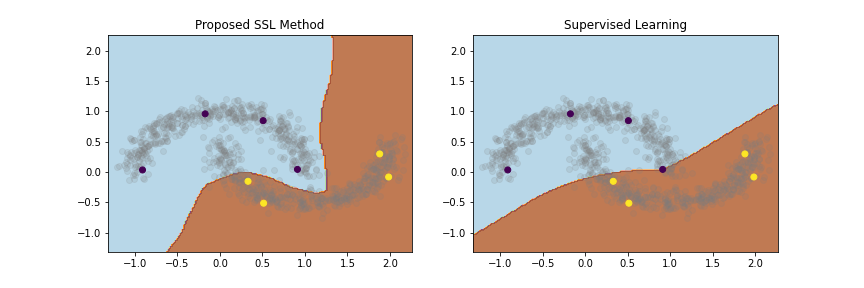
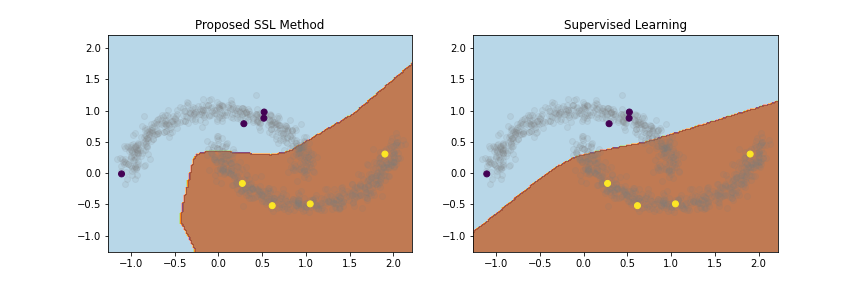
fixed bug in manifold regularization, updated two moons images

diff --git a/losses.py b/losses.py
@@ -6,6 +6,7 @@ import torch
 import torch.nn as nn
 import torch.nn.functional as F
 
+from sklearn.metrics.pairwise import cosine_similarity
 
 class SPMTLoss(nn.Module):
     def __init__(
@@ -17,13 +18,16 @@ class SPMTLoss(nn.Module):
             total_iterations: int,
 
             cons_lambda: float = 100.,
-            cpl_lambda: float = 1.,
+            cpl_lambda: float = 0.5,
+            gamma: float = 50.,
+            k: int = 3,
             label_smoothing: float = 0.1,
 
         ):
         super(SPMTLoss, self).__init__()
         self.cfg = cfg
-        self.gamma = 3.
+        self.k = k
+        self.gamma = gamma
         self.cons_lambda = cons_lambda
         self.cpl_lambda = cpl_lambda
         self.label_smoothing = label_smoothing
@@ -43,17 +47,21 @@ class SPMTLoss(nn.Module):
             label_smoothing = label_smoothing
         )
 
+        self.triplet_loss = TipletMiningLoss()
+
     def forward(
         self,
         pred: Tensor,
         targ_class: Tensor,
         ema_logit: Tensor,
+        features: Tensor,
         training_mode: bool = True
     ):
 
         supervised_loss = torch.tensor([0.]).to(pred.device)
         cons_loss = torch.tensor([0.]).to(pred.device)
         pseudo_loss = torch.tensor([0.]).to(pred.device)
+        #triplet_loss = torch.tensor([0.]).to(pred.device)
 
         # normal supervsied cross entropy
         supervised_loss += self.class_crit(pred, targ_class)
@@ -61,6 +69,9 @@ class SPMTLoss(nn.Module):
         if self.cfg.ecr:
             # consistency ECR loss from mean teacher
             cons_loss += self.consistency_loss(pred, ema_logit)
+        elif self.cfg.mr and (ema_logit is not None) and (features is not None):
+            cons_loss += self.manifold_regularization(pred, ema_logit, features)
+            #pseudo_loss += 0.0001 * self.triplet_loss(features, torch.argmax(ema_logit, -1))
 
         if self.cfg.cpl:
             # curriculum pseudo loss
@@ -70,28 +81,6 @@ class SPMTLoss(nn.Module):
             self.iterations += 1
 
         return supervised_loss, cons_loss, pseudo_loss
-
-    def softmax_focal(self, input, target):
-
-        mask = target != -1
-        input = input[mask]
-        target = target[mask]
-
-        range_n = torch.arange(0, target.size(0), dtype=torch.int64, device=target.device)
-
-        logpt = F.log_softmax(input, 1)
-        logpt = logpt[range_n, target.long()]
-
-        # with torch.no_grad():
-        #     smoothed_targets = torch.zeros_like(logpt)
-        #     smoothed_targets.fill_(self.label_smoothing / (input.size(1) - 1))
-        #     smoothed_targets[range_n, target] = 1. - self.label_smoothing
-
-        pt = logpt.exp()
-
-        loss = -1 * (1. - pt) ** self.gamma * logpt
-
-        return loss.mean()
 
     def curriculum_pseudo_loss(self, pred, ema_logit, targ_class):
         '''
@@ -118,7 +107,6 @@ class SPMTLoss(nn.Module):
                 pseudo_loss = F.cross_entropy(
                     pred[unlabeled_mask][mask],
                     pseudo_targets[mask],
-                    label_smoothing = self.label_smoothing
                 )
                 # pseudo_loss = self.softmax_focal(
                 #     pred[unlabeled_mask][mask],
@@ -134,39 +122,39 @@ class SPMTLoss(nn.Module):
         Consistency loss component consisting of ECR similar to
         https://arxiv.org/abs/1703.01780 and https://arxiv.org/abs/2109.14563
         '''
-        if (ema_logit is not None):
 
-            # calculate the unsupervised loss for the labeled portion
-            cons_loss = F.mse_loss(
-                F.softmax(pred, -1),
-                F.softmax(ema_logit, -1),
-                reduction='mean'
-            )
+        # calculate the unsupervised loss for the labeled portion
+        cons_loss = F.mse_loss(
+            F.softmax(pred, -1),
+            F.softmax(ema_logit, -1),
+            reduction='mean'
+        )
 
-            cons_loss = self.cons_lambda * self.rampup(self.iterations, self.ecr_warmup_iterations) * cons_loss
-        else:
-            cons_loss = torch.tensor([0.]).to(pred.device)
+        cons_loss = self.cons_lambda * self.rampup(self.iterations, self.ecr_warmup_iterations) * cons_loss
 
         return cons_loss
 
     def manifold_regularization(self, pred, ema_logit, features):
 
-        if (ema_logit is not None):
+        # calculate all pairwise distances, functions as a graph adjacency matrix for all points in batch
+        #dists = torch.linalg.norm(features[:, None, :] - features[:, :] + 1e-8, dim=-1)
+        # normalize then invert all the values. Closest euc distance has maximum weight of 1
+        #dists = (dists - dists.min()) / (dists.max() - dists.min())
+        #dists = 1. - dists
+        #dists = dists ** self.gamma
 
-            # calculate all pairwise distances
-            dists = torch.linalg.norm(features[:, None, :] - features[:, :] + 1e-8, dim=-1)
-            # invert all the values. Closest euc distance has maximum weight
-            dists = dists.max() - dists
+        # cosine distances
+        dists = torch.tensor(cosine_similarity(features.cpu().numpy())).to(pred.device)
 
-            # pairwise mse
-            mse = ((F.softmax(pred, -1)[:, None, :] - F.softmax(ema_logit, -1)) ** 2).mean(-1)
+        # pairwise mse
+        mse = ((F.softmax(pred, -1)[:, None, :] - F.softmax(ema_logit, -1)) ** 2).mean(-1)
 
-            # average euclidean distance weighted mse on the lower triangle
-            cons_loss = torch.mean(torch.tril(dists, diagonal=-1) * torch.tril(mse, diagonal=-1))
+        # get the k nearest
+        _, k_nearest = torch.topk(dists, self.k, dim=-1)
+        # average euclidean distance weighted mse on the k nearest points for each member of batch
+        cons_loss = torch.mean(dists.gather(1, k_nearest) * mse.gather(1, k_nearest))
 
-            cons_loss = self.cons_lambda * self.rampup(self.iterations, self.ecr_warmup_iterations) * cons_loss
-        else:
-            cons_loss = torch.tensor([0.]).to(pred.device)
+        cons_loss = self.cons_lambda * self.rampup(self.iterations, self.ecr_warmup_iterations) * cons_loss
 
         return cons_loss
 
@@ -177,32 +165,79 @@ class SPMTLoss(nn.Module):
     def entropy(self, dist):
         return -1 * torch.sum((dist + 1e-8) * torch.log(dist + 1e-8), axis=-1)
 
-    # def symmetric_mse_loss(self, input_a, input_b):
-    #     '''
-    #     Symmetric version of MSE that send grads to both inputs. https://arxiv.org/abs/1703.01780
-    #     '''
-    #     assert input_a.size() == input_b.size()
-
-    #     return torch.mean((input_a - input_b)**2)
-
-    # def jsd_loss(self, input_a, input_b):
-    #     '''
-    #     Jensen-Shannon Divergence loss implemented similarly to: https://arxiv.org/abs/2109.14563
-    #     '''
-    #     assert input_a.size() == input_b.size()
-
-    #     kl_targ = 0.5 * (F.softmax(input_a, -1) + F.softmax(input_b, -1))
-
-    #     jsd_loss = (
-    #         0.5 * F.kl_div(F.log_softmax(input_a, -1), kl_targ.detach(), reduction='batchmean') +
-    #         0.5 * F.kl_div(F.log_softmax(input_b, -1), kl_targ.detach(), reduction='batchmean')
-    #     )
-
-    #     return jsd_loss
-
     def get_percentile(self, confidences, cur_iter):
         # add percentials by 10% at a time
         ratio = math.ceil((cur_iter / self.total_iterations) * 10) *  10.
         quantile = max(0., 1. - (ratio / 100.))
 
         return torch.quantile(confidences, quantile, interpolation='linear')
+
+
+class TipletMiningLoss(nn.Module):
+    '''
+    Online Triplet Loss with hard mining. Takes the same input as if one was using the normal
+    CrossEntropyLoss with PyTorch. The inputs are a batch of embeddings (N, embed_dim) and a vector (N)
+    of corresponding labels. The forward function finds for each embedding the furthest positive and
+    closest negative and calculates the triplet loss using those.
+
+    Parameters
+    ----------
+        margin: float
+            The margin used for comparison between the pos and neg distances.
+
+    Methods
+    -------
+        forward: vector_batch (N, embed_dim), labels_batch (N)
+            Calculates the triplet loss and finds the furthest positives and closest negatives.
+
+        get_positive_mask: labels (N)
+            Finds the mask that contains valid positive matches. In other words it creates a binary
+            mask of all inputs that have a matching label but ignores indices along the diagonal
+            because that would be the same index as the current query vector.
+
+        get_negative_mask: labels (N)
+            Finds a mask that contains valid negative matches. In other words it creates a binary
+            mask where two labels do not match.
+    '''
+    def __init__(self, margin = 1.):
+        super(TipletMiningLoss, self).__init__()
+        self.margin = margin
+
+    def forward(self, vector_batch: torch.Tensor, labels_batch: torch.Tensor) -> torch.Tensor:
+
+        # calculate all pairwise distances
+        dists = torch.linalg.norm(vector_batch[:, None, :] - vector_batch[:, :] + 1e-8, dim=-1)
+
+        # get the masks for valid positive matches and valid negative matches
+        pos_mask = self.get_positive_mask(labels_batch).to(vector_batch.device)
+        neg_mask = self.get_negative_mask(labels_batch).to(vector_batch.device)
+
+        positive_dists = torch.max(dists * pos_mask, 1)[0].to(vector_batch.device)
+
+        # min masking doesn't work because we'll just take 0 when the neg_mask is applied
+        # so we take the maximum distance value and set that in the inverse of the negative mask
+        # then when we take the min we won't accidentialy take a value where two indices match
+        global_max_value = torch.max(dists).item()
+        negative_dists = torch.min(dists + (global_max_value * ~neg_mask), 1)[0].to(vector_batch.device)
+
+        # calculate triplet loss using mined pairs
+        tl = torch.max(positive_dists - negative_dists + self.margin, torch.Tensor([0.0]).to(vector_batch.device))
+
+        return torch.mean(tl)
+
+    def get_positive_mask(self, labels: torch.Tensor) -> torch.Tensor:
+        # ones everywhere except for diagonal (same index)
+        diag_mask = torch.eye(labels.size(0)).bool().to(labels.device)
+        diag_mask = ~diag_mask
+
+        # same label
+        equal_mask = torch.eq(labels.unsqueeze(0), labels.unsqueeze(1))
+
+        # get the union of matching index and the diagonal mask
+        mask = diag_mask & equal_mask
+
+        return mask
+
+    def get_negative_mask(self, labels: torch.Tensor) -> torch.Tensor:
+        # get the makes for where labels don't match
+        return torch.ne(labels.unsqueeze(0), labels.unsqueeze(1))

diff --git a/runner.py b/runner.py
@@ -131,21 +131,23 @@ class MTTrainer:
             imgs, targets = data['img'], data['targ']
             imgs, targets = imgs.to(self.device), targets.to(self.device)
 
-            if mode == 'train' and (self.cfg.ecr or self.cfg.spl):
+            if mode == 'train' and (self.cfg.ecr or self.cfg.spl or self.cfg.mr):
                 ema_imgs = data['ema_img']
                 ema_imgs = ema_imgs.to(self.device)
 
                 with torch.no_grad():
-                    ema_logit = self.teacher(ema_imgs)
+                    ema_logit, features = self.teacher(ema_imgs)
 
             else:
-                ema_logit = None
+                ema_logit, features = None, None
 
             # get predictions
-            preds = self.student(imgs)
+            preds, _ = self.student(imgs)
 
             # calculate loss
-            supervised_loss, cons_loss, pseudo_loss = self.crit(preds, targets, ema_logit, training_mode = mode=='train')
+            supervised_loss, cons_loss, pseudo_loss = self.crit(
+                preds, targets, ema_logit, features, training_mode = mode=='train'
+            )
 
             loss = supervised_loss + cons_loss + pseudo_loss
 
@@ -230,7 +232,7 @@ class MTTrainer:
                 imgs, targets = imgs.to(self.device), targets.to(self.device)
 
                 # get predictions
-                preds = eval_net(imgs)
+                preds, _ = eval_net(imgs)
 
                 # track classification accuracy
                 _, predicted = torch.max(preds, -1)

diff --git a/model.py b/model.py
@@ -145,14 +145,13 @@ class ResNet(nn.Module):
         x = self.layer2(x)
         x = self.layer3(x)
 
-        x = self.avg_pool(x).squeeze()
-        x = self.dropout(x)
+        feats = self.avg_pool(x).squeeze()
 
         # decoupled classification and consistency
-        classification_out = self.classification_out(x)
+        classification_out = self.classification_out(self.dropout(feats))
         #consistency_out = self.consistency_out(x)
 
-        return classification_out#, consistency_out
+        return classification_out, feats
 
     def enable_dropout(self):
         """ Function to enable the dropout layers during test-time """

diff --git a/train.py b/train.py
@@ -36,6 +36,9 @@ parser.add_argument(
 parser.add_argument('--spl', action='store_true',
     help = 'whether to use self paced learning'
 )
+parser.add_argument('--mr', action='store_true',
+    help = 'whether to use manifold regularization'
+)
 parser.add_argument('--ecr', action='store_true',
     help = 'whether to use mean teacher training'
 )
@@ -116,6 +119,7 @@ def main():
     runner.train_network()
 
     training_type = 'ecr' if args.ecr else 'vanilla'
+    training_type = 'mr' if args.mr else 'vanilla'
     training_type += training_type + '_spl' if args.spl else ''
 
     df_acc = pd.DataFrame(runner.accuracies)
